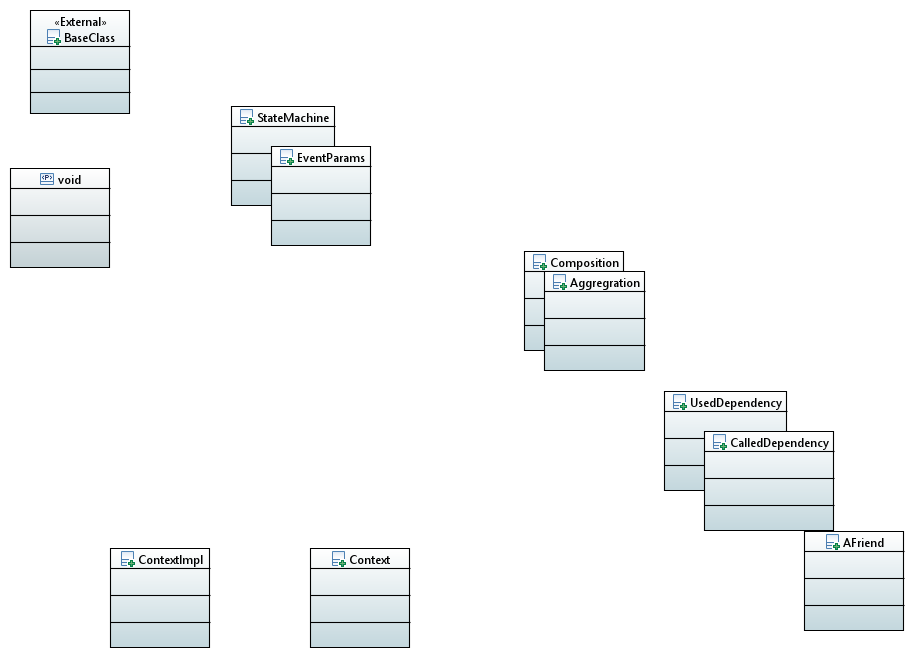
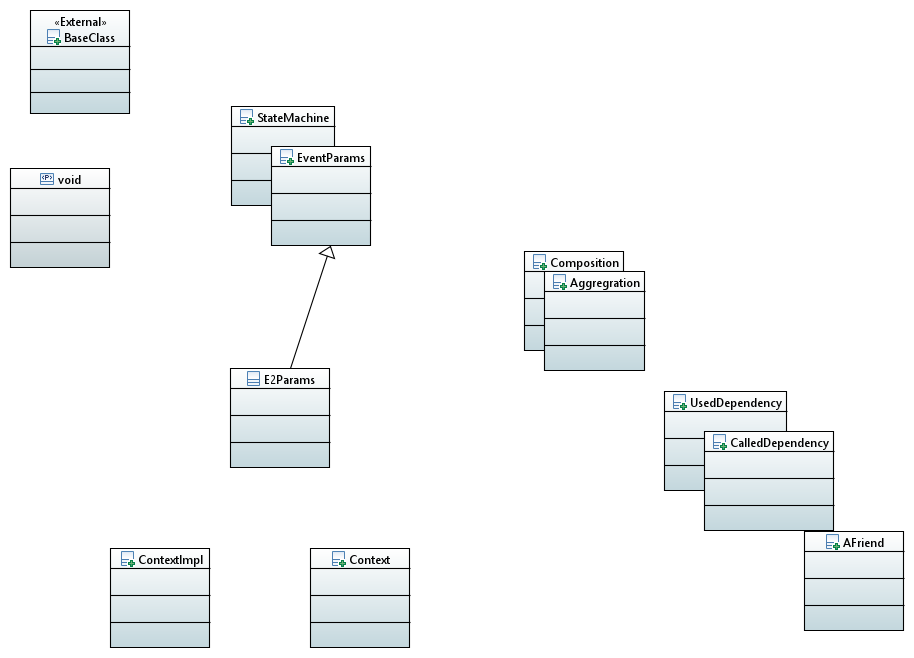
Offset can be read from ini file

Changed region(s): [[0.2451, 0.5471, 0.3676, 0.7295], [0.337, 0.3647, 0.3676, 0.3951]]

diff --git a/AllNotationsJava/src/simulator/RectImageWindow.java b/AllNotationsJava/src/simulator/RectImageWindow.java
@@ -7,7 +7,8 @@ import java.io.File;
 import java.io.IOException;
 import java.util.LinkedHashMap;
 import java.util.Map;
-import javax.imageio.ImageIO;
+
+import javax.imageio.*;
 
 public class RectImageWindow extends JFrame {
 
@@ -21,6 +22,11 @@ public class RectImageWindow extends JFrame {
         setContentPane(imagePanel);
         pack();
         setLocationRelativeTo(null);
+        
+		int[] off = readOverlayIni(imagePanel.getBackgroundImageFile());
+		if (off != null) {
+		    imagePanel.setOverlayOffset(off[0], off[1]);
+		}
     }
 
     // ---------------- Rectangles (unchanged) ----------------
@@ -63,6 +69,46 @@ public class RectImageWindow extends JFrame {
             SwingUtilities.invokeLater(imagePanel::clearPolyline);
         }
     }
+    
+	private static File iniFileOf(File pngFile) {
+	    return new File(pngFile.getParentFile(), pngFile.getName() + ".ini");
+	}
+	
+	private static int[] readOverlayIni(File pngFile) {
+	    File ini = iniFileOf(pngFile);
+	    if (!ini.exists()) return null;
+	
+	    int dx = 0, dy = 0;
+	    boolean hasDx = false, hasDy = false;
+	
+	    try (java.io.BufferedReader br = new java.io.BufferedReader(new java.io.FileReader(ini))) {
+	        String line;
+	        while ((line = br.readLine()) != null) {
+	            line = line.trim();
+	            if (line.isEmpty() || line.startsWith(";") || line.startsWith("#")) continue;
+	            if (line.startsWith("[") && line.endsWith("]")) continue; // ignore section name
+	
+	            int eq = line.indexOf('=');
+	            if (eq <= 0) continue;
+	
+	            String key = line.substring(0, eq).trim();
+	            String val = line.substring(eq + 1).trim();
+	
+	            if (key.equalsIgnoreCase("dx")) {
+	                dx = Integer.parseInt(val);
+	                hasDx = true;
+	            } else if (key.equalsIgnoreCase("dy")) {
+	                dy = Integer.parseInt(val);
+	                hasDy = true;
+	            }
+	        }
+	    } catch (Exception e) {
+	        e.printStackTrace();
+	        return null;
+	    }
+	
+	    return (hasDx || hasDy) ? new int[]{dx, dy} : null;
+	}
 
     // ---------------- ImagePanel ----------------
 
@@ -71,16 +117,28 @@ public class RectImageWindow extends JFrame {
         private BufferedImage backgroundImage;
         private final Map<String, Rectangle> rectMap = new LinkedHashMap<>();
         private int[] activePolyline;   // single active polyline
-        private int overlayDx = 20;
-        private int overlayDy = 20;
+        private int overlayDx = 0;
+        private int overlayDy = 0;
+        private File backgroundImageFile; // for saving metadata
         
         public ImagePanel(String imagePath) {
             loadImage(imagePath);
         }
 
+        public void setOverlayOffset(int dx, int dy) {
+            this.overlayDx = dx;
+            this.overlayDy = dy;
+            repaint();
+        }
+        
+        public File getBackgroundImageFile() {
+			return backgroundImageFile;
+		}
+        
         private void loadImage(String path) {
             try {
-                backgroundImage = ImageIO.read(new File(path));
+            	backgroundImageFile = new File(path);
+                backgroundImage = ImageIO.read(backgroundImageFile);
                 setPreferredSize(new Dimension(
                         backgroundImage.getWidth(),
                         backgroundImage.getHeight()));
